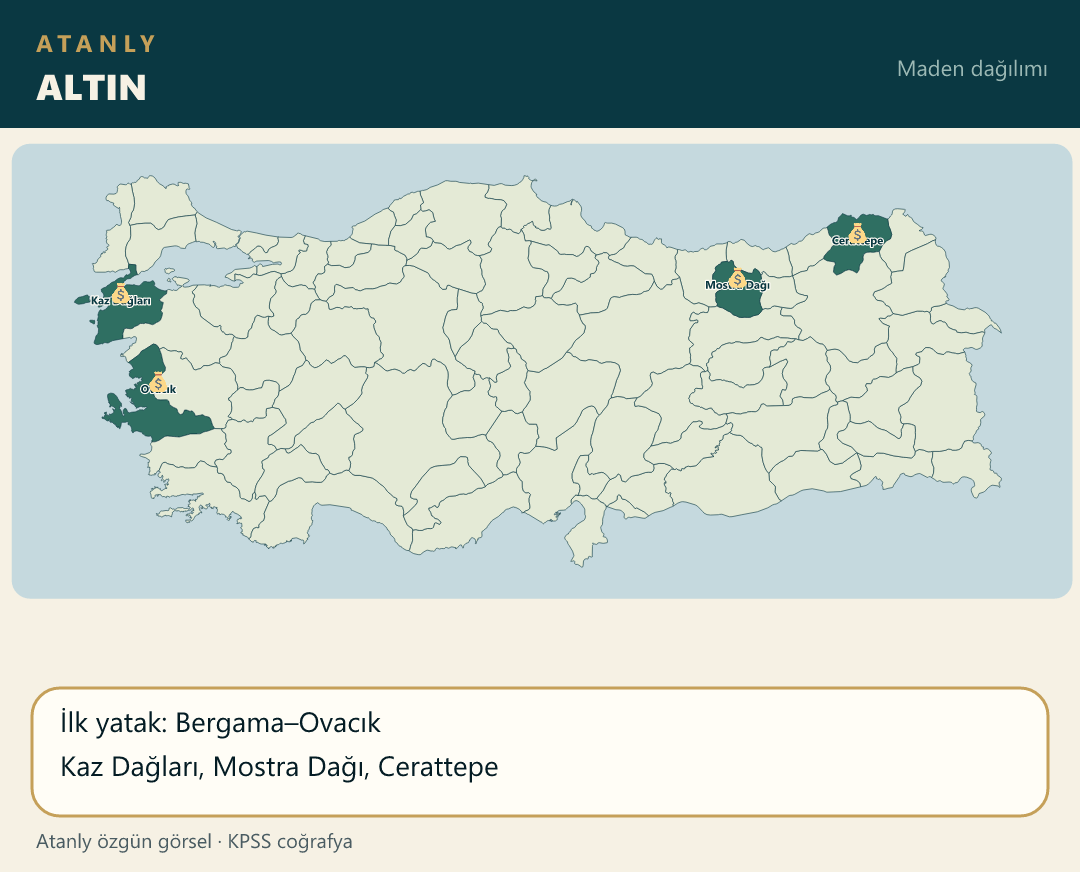
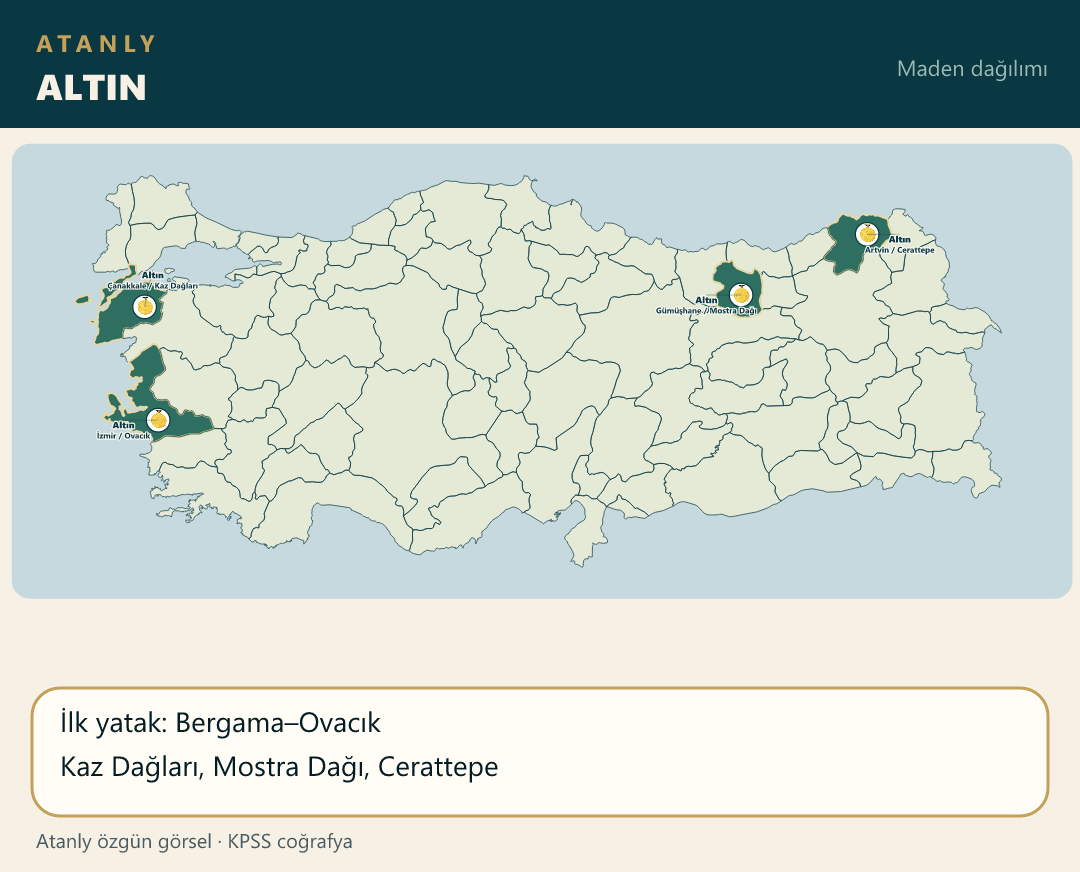
Place the gold coin photo on Turkey's main altın mine pins.

diff --git a/scripts/build-atanly-maps.js b/scripts/build-atanly-maps.js
@@ -1014,8 +1014,13 @@ function main() {
         { file: "maden_trona.png", title: "TRONA (SODA KÜLÜ)", iller: ["Ankara"],
             yazilar: ["Beypazarı · Kazan"],
             facts: ["Cam sanayisi (Şişecam)", "Sincan, Kazan, Beypazarı", "İşleme: Kazan"] },
-        { file: "maden_altin.png", title: "ALTIN", iller: ["İzmir", "Çanakkale", "Gümüşhane", "Artvin"],
-            yazilar: ["Ovacık", "Kaz Dağları", "Mostra Dağı", "Cerattepe"],
+        { file: "maden_altin.png", title: "ALTIN", urun: "Altın",
+            noktalar: [
+                { il: "İzmir", ilce: "Ovacık", ldx: -34, ldy: 8 },
+                { il: "Çanakkale", ilce: "Kaz Dağları", ldx: 8, ldy: -28 },
+                { il: "Gümüşhane", ilce: "Mostra Dağı", ldx: -34, ldy: 8 },
+                { il: "Artvin", ilce: "Cerattepe", ldx: 32, ldy: 8 }
+            ],
             facts: ["İlk yatak: Bergama–Ovacık", "Kaz Dağları, Mostra Dağı, Cerattepe"] },
         { file: "maden_uranyum.png", title: "URANYUM", iller: ["Yozgat"],
             yazilar: ["Sorgun"],
@@ -1062,6 +1067,8 @@ function main() {
         writePng(path.join(IMG, m.file), cropMap(provs, {
             file: m.file,
             title: m.title,
+            urun: m.urun,
+            noktalar: m.noktalar,
             iller: m.iller,
             yazilar: m.yazilar,
             facts: m.facts,

diff --git a/notlar/cografya-21-not.js b/notlar/cografya-21-not.js
@@ -2,7 +2,7 @@
 (function () {
     function harita(src, alt) {
         return '<div class="mt-4 overflow-hidden rounded-xl border border-blue-200 dark:border-blue-700/50 bg-white dark:bg-slate-800 p-2">' +
-            '<img src="./src/img/' + src + '?v=11" alt="' + alt + ' Haritası" class="w-full h-auto rounded-lg object-contain" loading="lazy">' +
+            '<img src="./src/img/' + src + '?v=12" alt="' + alt + ' Haritası" class="w-full h-auto rounded-lg object-contain" loading="lazy">' +
             "</div>";
     }
 

diff --git a/index.html b/index.html
@@ -119,7 +119,7 @@
     <script src="notlar/cografya-18-not.js?v=17"></script>
     <script src="notlar/cografya-19-not.js?v=25"></script>
     <script src="notlar/cografya-20-not.js?v=1"></script>
-    <script src="notlar/cografya-21-not.js?v=4"></script>
+    <script src="notlar/cografya-21-not.js?v=5"></script>
     <script src="notlar/cografya-22-not.js?v=1"></script>
     <script src="notlar/cografya-23-not.js?v=1"></script>
     <script src="notlar/cografya-24-not.js?v=1"></script>
